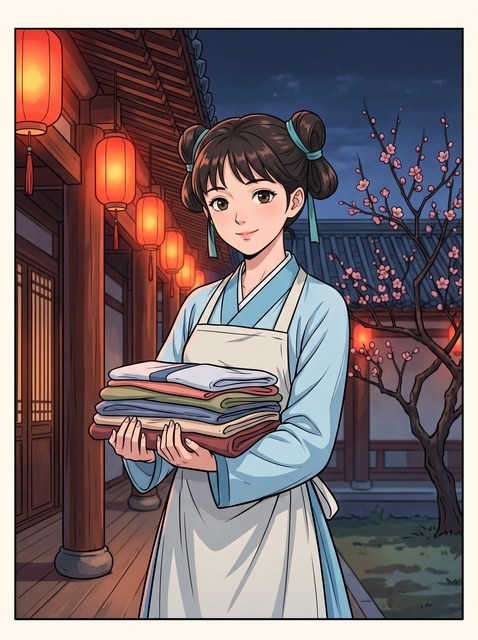
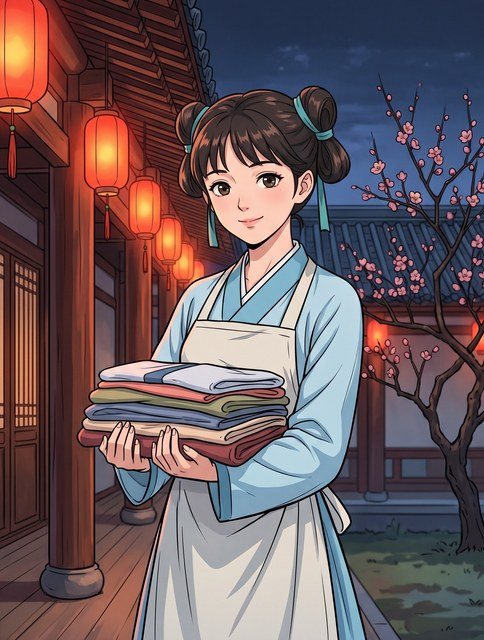
难度曲线按用户给的数重调；招贤馆不再一开始就有北海的人；丫鬟立绘去白边
- 敌人强度：第 N 章第一列落在公式第 N 章，最后一列落在第 N+1 章，中间线性插值，
  一章的末尾正好是下一章的开头（序章也爬）；每场普通战斗直接对准曲线，不再随卡牌；
  精英 / 首领 / 必败仍乘 enemy_coef。参数 base 2.54 / exponent 1.4 / offset 0.267，
  chapter_default 1（第一章开头 0.4、第三章开头 8）
- test_chapter_one_is_winnable_with_either_plan / test_dongzhuo_chapter_is_fair_after_chapter_one
  的机器人通关率降到 0，是难度改了，等用户试玩后再决定是否放宽
- 第四章 bh_m4 招贤格用自己的名单（邹丹、戏志才），北海的人不再开头就能招
- 甄府丫鬟立绘裁掉白边和黑框，重调取景
- sanguo-test skill 加「怎么校准整条难度曲线」

Claude-Session: https://claude.ai/code/session_0198pjnC7xmUyZ8BoW5EzXun

diff --git a/.claude/skills/sanguo-test/SKILL.md b/.claude/skills/sanguo-test/SKILL.md
@@ -58,8 +58,30 @@ SIM_RUNS=40 SIM_LAPS=2 SIM_GIVEUP=3 SIM_ROUTE=south \
 
 ## 4. 敌人强度只调一个旋钮
 
-`cards.json → battle.scaling`：目标强度（血×攻×行动数）= `1e6 × strength × base × growth^N × tier`（精英 ×2、首领 ×3），N 取 `order`；每章每档的中位数被拉到目标，敌人间相对强弱仍随卡牌；章内 `in_chapter` 0.9→1.1。**日常只改 `strength`**（或同比改 `base`）；`growth` 是曲线斜率，后面章节整体偏难 / 偏易时才动。`late_growth` 默认 1（关）。战斗手感 `battle.attack_mult` / `hp_mult`（双方同时生效，乘起来 1.0 时强度对比不变，战斗更短更起伏）；`crit`（暴击）、`ambush_chance`（埋伏）、`event_random`（？事件纯随机）也都在 `battle` 里。
+`battle.json → battle.scaling`：目标强度（血×攻×行动数）= `1e6 × strength × base × (N + offset)^exponent × 章系数`，N 取 `order`；一章的第一列落在第 N 章、最后一列落在第 N+1 章，中间线性插值，每场普通战斗直接对准这条线（不随卡牌），精英 / 首领 / 必败再乘 `enemy_coef`。**日常只改 `strength`**（或 `chapter_default`）；`exponent` 是曲线斜率，后面章节整体偏难 / 偏易时才动。
 一周目通关率目标 ≈ 80%：用上面的模拟扫 `SIM_STRENGTH`（0.5 / 1 / 1.5 / 2 / 3）看曲线，再把选定的值折进 `base`，保持 `strength = 1.0`。
+
+### 怎么校准整条难度曲线（用户给「某章开头多少」时）
+
+曲线是一条幂函数：**第 N 章开头的强度 = `base × (N + offset)^exponent`**（`strength` 与 `chapter_default` 保持 1，不要用它们凑数），第 N 章最后一列 = 第 N+1 章开头，章内线性插值。N 是 `order`：序章 / 第一章 = 0，第二章 = 1，第三章 = 2……（南北线同序）。强度单位是 1e6，所以「第三章开头 8」就是 `curve(2) = 8`。
+
+用户一般会给三个数：一个指数、一个起点、一个远点。三个参数刚好对上：
+
+1. 记 `exponent = e`，起点 `curve(0) = a`，远点 `curve(m) = b`（m 是那一章的序号）。
+2. `offset = m / ((b / a)^(1/e) − 1)`，`base = a / offset^e`。
+3. 用下面这段脚本把每章的开头列出来，**先给用户看表确认，再改文件**：
+
+```python
+e, a, m, b = 1.4, 0.4, 2, 8          # 用户给的
+r = (b / a) ** (1 / e); o = m / (r - 1); k = a / o ** e
+print("offset=%.3f base=%.2f" % (o, k), [round(k * (n + o) ** e, 1) for n in range(13)])   # 第 1..13 章开头
+```
+
+- 用户给的是「几个章节的边界值」而不是指数时：幂函数只有三个参数，增量只会越来越大，**拟合不出先加快再放缓的 S 形**；扫 `(exponent, offset)`，每组把 `base` 取成最小二乘（或用两端点定 `base`）选误差最小的，再把算出来的整张表（第一章到第十二章）给用户看，后期往往会变陡，要和用户确认。
+- 改 `battle.json → scaling` 的 `base` / `exponent` / `offset`，`chapter_default` 设 1，`chapter` 留空，同时更新那里的注释和 `sanguo-dev` 里「敌人强度系统」一段写的数字。
+- 精英 / 首领 / 必败不在这条曲线里，在 `enemy_coef`（1.25 / 1.45 / 2）。
+- 每场普通战斗**直接对准曲线**（不随卡牌），所以同一列的小兵强度一样；曲线数字就是真实的强度，用战斗里的血 × 攻 × 行动数核对。
+- 曲线整体一变，机器人模拟的通关率会变：`test_chapter_one_is_winnable_with_either_plan`（0.35 起）和 `test_dongzhuo_chapter_is_fair_after_chapter_one`（0.2 起）会随第一章末尾强度变化而掉到 0；这是难度改了，不是 bug。先问用户要不要放宽这两条的下限，别自己改。
 
 ## 5. 写新测试的习惯
 

diff --git a/.claude/skills/sanguo-dev/SKILL.md b/.claude/skills/sanguo-dev/SKILL.md
@@ -556,7 +556,7 @@ from history for this reason).
 
 埋伏：普通战斗（非首领、非精英）每局开章时按 `battle.ambush_chance`（0.5）随机抽一半成为埋伏，结果存 `save.ambushes`（随局保存、每局不同）；格子上写死的 `ambush: true` 仍然生效（如第二章「李儒伏兵」）。
 
-敌人强度系统（`cards.json` → `battle.scaling` / `battle.enemy_coef`，代码 `Quests.target_power` / `_scale_for` / `enemy_scale`）：强度 = 血量×攻击×行动数，**一条曲线**：第 N 章（`order` 里的序号，从 0 起，南北线同序）普通战斗的目标强度 = `strength × base × (N + offset)^exponent`（现在 base 1.6 / exponent 1.5 / offset 0.6）。强度是血×攻，血和攻各自按它的平方根走；我方队伍也在成长，所以难度（敌我之比）是前期陡、后期平；offset < 1 让序章明显更容易、第二章起涨得更陡；exponent 0.5 就是平方根曲线。代码把本章每一档战斗强度的**中位数**拉到目标，每个敌人相对中位数的强弱仍随它自己的卡牌；章内再按格子列线性递增 `in_chapter`（第一列 ×start，最后一列 ×end，prologue 除外）。精英 / 首领 / 必败（`lose_goto`，如虎牢关吕布）各再乘一个系数（`enemy_coef`：1.25 / 1.45 / 4，血和攻都乘；`scaling.tier` 现在都是 1，避免叠两次）。`strength` 整体加难度，`chapter` 是个别章节的手工微调，没写的章节用 `chapter_default`（现在第一章 1、其他章 2，用户定）。周目难度、险、词缀仍叠加在后面。`tests/test_quests.gd` 有防反转测试。
+敌人强度系统（`battle.json` → `battle.scaling` / `battle.enemy_coef`，代码 `Quests.target_power` / `_scale_for` / `enemy_scales`）：强度 = 血量×攻击×行动数，**公式只管整体难度，不管是哪张卡、精英还是首领**。第 N 章（`order` 里的序号，从 0 起，南北线同序，序章也爬）第一列的强度 = `strength × base × (N + offset)^exponent × 本章系数`（现在 base 2.54 / exponent 1.4 / offset 0.267，按用户给的第一章开头 0.4、第三章开头 8 定（第二章开头 3.5、第四章开头 13.3、第十二章 85）），最后一列 = 同一公式的第 N+1 章，中间按列位置线性插值，所以一章的末尾正好是下一章的开头。每场普通战斗的血和攻各乘同一个数，把它的强度正好放到这一列的曲线上（卡牌自己的强弱不进公式）；精英 / 首领 / 必败（`lose_goto`，如虎牢关吕布）再乘 `enemy_coef`（1.25 / 1.45 / 2）。`strength` 整体加难度，`chapter` 是个别章节的手工微调，没写的章节（含序章）用 `chapter_default`（现在 1，表里的数已经是最终值）。周目难度、险、词缀仍叠加在后面。`tests/test_quests.gd` 有防反转 / 接缝测试。怎么按用户给的几个数校准整条曲线见 `sanguo-test` skill 第 4 节「怎么校准整条难度曲线」。
 
 难度目标：整体胜率约七成（每次战斗；普通战 ~82%、精英 ~70%、首领 ~53%，序章 ~89%、之后各章 75% → 55% 缓慢往下）。当前参数下 bot 一周目 24 局通关 17 局（71%）。想更易 / 更难：改 `strength`（或 `base`）；扫参数用 `SIM_LAPS=4 SIM_RUNS=16 SIM_ROUTE=south godot --headless --path godot --script res://tests/sim_balance.gd`，旋钮 `SIM_STRENGTH SIM_BASE SIM_EXPONENT SIM_OFFSET SIM_ELITE SIM_BOSS`；各档胜率汇总可以把输出里每行的 `n=` 与 `win=` 按档加权平均。个别敌人（如 `taodong:fire`）比同章其他敌人强得多，会拉低波动，单独压它的 hp / at。
 

diff --git a/docs/ROSTER.md b/docs/ROSTER.md
@@ -419,12 +419,12 @@
 | `baoxin` | 鲍信 | R | 骑兵 | 剧情限定 | 第二章 · 洛阳烟云：招贤 |
 | `chenglian` | 成廉 | R | 枪兵 | 是 | 第二章 · 洛阳烟云：招贤 |
 | `yangang` | 严纲 | R | 枪兵 | 是 | 第三章 · 黑山风云：招贤 |
-| `zoudan` | 邹丹 | R | 枪兵 | 是 | 第三章 · 黑山风云：招贤<br>第四章 · 双凤乱太行：招贤 |
+| `zoudan` | 邹丹 | R | 枪兵 | 是 | 第三章 · 黑山风云：招贤<br>第四章 · 双凤乱太行：招贤、招贤「太行招贤」 |
 | `taishici` | 太史慈 | R | 弓兵 | 是 | 第四章 · 双凤乱太行：剧情「太史慈」 |
 | `wangxiu` | 王修 | R | 策士 | 剧情限定 | 第四章 · 双凤乱太行：招贤 |
 | `weixu` | 魏续 | R | 枪兵 | 是 | 第四章 · 双凤乱太行：掉落 |
 | `wuanguo` | 武安国 | R | 刀兵 | 剧情限定 | 第四章 · 双凤乱太行：招贤、掉落 |
-| `xizhicai` | 戏志才 | R | 策士 | 剧情限定 | 第四章 · 双凤乱太行：招贤 |
+| `xizhicai` | 戏志才 | R | 策士 | 剧情限定 | 第四章 · 双凤乱太行：招贤、招贤「太行招贤」 |
 | `zhangmiao` | 张邈 | R | 刀兵 | 剧情限定 | 第五章 · 铁纪徐州：招贤 |
 | `gaolan` | 高览 | R | 枪兵 | 是 | 第七章 · 邺城惊雷：剧情「黎阳的船」、掉落 |
 | `guonvwang` | 郭照·女王 | R | 后勤 | 剧情限定 | 第七章 · 邺城惊雷：剧情「行辕」 |

diff --git a/docs/chapters/04-北线-双凤乱太行.md b/docs/chapters/04-北线-双凤乱太行.md
@@ -43,7 +43,7 @@
 | 14 | 0 | `bh_ta1` | 战斗·普通 | 太行·巡山队 | — | bh_ta2 | — |
 | 14 | 2 | `bh_m3` | ？ |  | — | bh_m4 | — |
 | 15 | 0 | `bh_ta2` | 战斗·精英 | 太行·于毒 | — | bh_lubu_start | — |
-| 15 | 2 | `bh_m4` | 招募 |  | — | bh_lubu_start | — |
+| 15 | 2 | `bh_m4` | 招募 | 太行招贤 | — | bh_lubu_start | 招募 邹丹、戏志才 |
 | 16 | 1 | `bh_lubu_start` | 剧情 | 吕布北来 | — | bh_wolf | — |
 | 17 | 1 | `bh_wolf` | 战斗·普通 | 并州狼骑 | — | bh_wolf2 | — |
 | 18 | 1 | `bh_wolf2` | 战斗·精英 | 并州精骑·魏续 | — | bh_gaoshun | — |

diff --git a/pics/ART-LOG.md b/pics/ART-LOG.md
@@ -1343,3 +1343,4 @@
 - [x] 2026-10-24 cg `s12_dongfeng` ← s12_dongfeng.jpg · ok
 - [x] 2026-10-24 cg `ss_lubu_xuzhou` ← ss_lubu_xuzhou.jpg 裁 2528×1696→2528×1422 · ok
 - [x] 2026-10-24 cg `ss_caocao_tuibing` ← ss_caocao_tuibing.jpg 裁 2528×1696→2528×1422 · ok
+- [ ] 2026-10-25 portrait `zhenfu_yahuan` ← zhenfu_yahuan.jpg · ok
